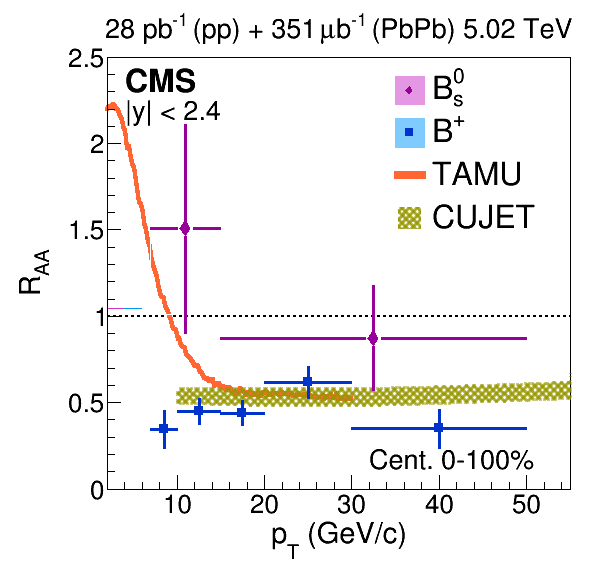
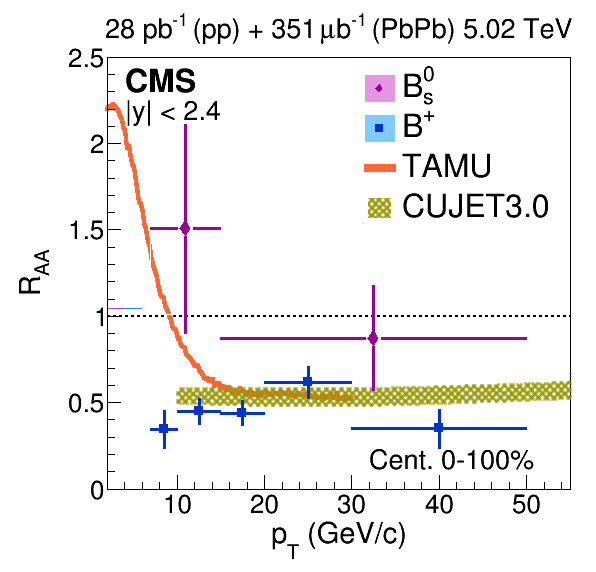
update

Changed region(s): [[0.604, 0.1189, 0.9362, 0.4161]]

diff --git a/CrossSection/NuclearModificationFactor.C b/CrossSection/NuclearModificationFactor.C
@@ -23,8 +23,8 @@ bool drawJpsi = 0;
 
 bool drawBpRpA = 0;
 
-bool drawThm = 1;
-bool drawSup = 0;
+bool drawThm = 0;
+bool drawSup = 1;
 
 int onlyBs = drawB + drawBpRAA + drawChHad + drawDRAA + drawJpsi + drawBpRpA;
 
@@ -247,9 +247,9 @@ void NuclearModificationFactor(TString inputPP="ROOTfiles/CrossSectionPP.root", 
 	//texpre->Draw();
 
 	//TLegend *legendSigma=new TLegend(0.50,0.66,0.95,0.88,"");
-    TLegend *legendSigma=new TLegend(0.7,0.67,0.95,0.88);
-	if(drawDRAA)legendSigma=new TLegend(0.35,0.55,0.95,0.88,"");
-	if(drawThm)legendSigma=new TLegend(0.65,0.58,0.95,0.88,"");
+    TLegend *legendSigma=new TLegend(0.6,0.6,0.9,0.88);
+	if(drawSup) legendSigma=new TLegend(0.7,0.67,0.95,0.88,"");
+	if(drawDRAA) legendSigma=new TLegend(0.35,0.55,0.95,0.88,"");
 	adjustLegend(legendSigma);
 
 	//TLegendEntry *ent_SigmaPP=legendSigma->AddEntry(hNuclearModification,"R_{AA} stat. unc.","pf");
@@ -466,7 +466,7 @@ void NuclearModificationFactor(TString inputPP="ROOTfiles/CrossSectionPP.root", 
 		gThmDummy1->SetLineWidth(8.);
 		gThmDummy2->SetLineWidth(8.);
 		TLegendEntry *ent_thm1 = legendSigma->AddEntry(gThmDummy1,"TAMU","l");
-		TLegendEntry *ent_thm2 = legendSigma->AddEntry(gThmDummy2,"CUJET","f");
+		TLegendEntry *ent_thm2 = legendSigma->AddEntry(gThmDummy2,"CUJET3.0","f");
 		ent_thm1->SetTextSize(legendTextSize);
 		ent_thm2->SetTextSize(legendTextSize);
 	}

diff --git a/CrossSection/plotBsBpRatio/canvasRAAPbPb_0_100_BpRAA.C b/CrossSection/plotBsBpRatio/canvasRAAPbPb_0_100_BpRAA.C
@@ -1,7 +1,7 @@
 void canvasRAAPbPb_0_100_BpRAA()
 {
 //=========Macro generated from canvas: canvasRAA/canvasRAA
-//=========  (Mon Sep 24 10:25:36 2018) by ROOT version6.02/13
+//=========  (Sun Sep 30 18:06:09 2018) by ROOT version6.02/13
    TCanvas *canvasRAA = new TCanvas("canvasRAA", "canvasRAA",0,0,600,600);
    gStyle->SetOptStat(0);
    gStyle->SetOptTitle(0);
@@ -63,6 +63,17 @@ tex->SetNDC();
 tex->SetNDC();
    tex->SetTextAlign(13);
    tex->SetTextSize(0.06);
+   tex->SetLineWidth(2);
+   tex->Draw();
+      tex = new TLatex(0.62,0.18,"Cent. 0-100%");
+tex->SetNDC();
+   tex->SetTextFont(42);
+   tex->SetLineWidth(2);
+   tex->Draw();
+      tex = new TLatex(0.35,0.877,"Supplementary");
+tex->SetNDC();
+   tex->SetTextAlign(13);
+   tex->SetTextFont(52);
    tex->SetLineWidth(2);
    tex->Draw();
    
@@ -188,7 +199,7 @@ tex->SetNDC();
    box->SetLineColor(ci);
    box->Draw();
    
-   TLegend *leg = new TLegend(0.7,0.67,0.95,0.88,NULL,"brNDC");
+   TLegend *leg = new TLegend(0.7,0.65,0.95,0.88,NULL,"brNDC");
    leg->SetBorderSize(0);
    leg->SetTextSize(0.055);
    leg->SetLineColor(0);

diff --git a/CrossSection/plotRAA/canvasRAAPbPb_0_100_BpRAA_ThmRAA.C b/CrossSection/plotRAA/canvasRAAPbPb_0_100_BpRAA_ThmRAA.C
@@ -1,7 +1,7 @@
 void canvasRAAPbPb_0_100_BpRAA_ThmRAA()
 {
 //=========Macro generated from canvas: canvasRAA/canvasRAA
-//=========  (Thu Sep 27 11:57:33 2018) by ROOT version6.02/13
+//=========  (Sun Sep 30 18:02:41 2018) by ROOT version6.02/13
    TCanvas *canvasRAA = new TCanvas("canvasRAA", "canvasRAA",0,0,600,600);
    gStyle->SetOptStat(0);
    gStyle->SetOptTitle(0);
@@ -1597,7 +1597,7 @@ tex->SetNDC();
    
    gre->Draw("3 ");
    
-   TLegend *leg = new TLegend(0.65,0.58,0.95,0.88,NULL,"brNDC");
+   TLegend *leg = new TLegend(0.6,0.6,0.9,0.88,NULL,"brNDC");
    leg->SetBorderSize(0);
    leg->SetTextSize(0.055);
    leg->SetLineColor(0);
@@ -1645,7 +1645,7 @@ tex->SetNDC();
    entry->SetMarkerSize(1);
    entry->SetTextFont(42);
    entry->SetTextSize(0.06);
-   entry=leg->AddEntry("","CUJET","f");
+   entry=leg->AddEntry("","CUJET3.0","f");
 
    ci = 931;
    color = new TColor(ci, 0.6, 0.6, 0, " ", 0.5);

diff --git a/CrossSection/plotBsBpRatio/BsBpRatio_ThmRAA.C b/CrossSection/plotBsBpRatio/BsBpRatio_ThmRAA.C
@@ -1,7 +1,7 @@
 void BsBpRatio_ThmRAA()
 {
 //=========Macro generated from canvas: canvasRAA/canvasRAA
-//=========  (Thu Sep 27 12:02:59 2018) by ROOT version6.02/13
+//=========  (Sun Sep 30 18:05:08 2018) by ROOT version6.02/13
    TCanvas *canvasRAA = new TCanvas("canvasRAA", "canvasRAA",0,0,600,600);
    gStyle->SetOptFit(1);
    gStyle->SetOptStat(0);
@@ -1594,7 +1594,7 @@ tex->SetNDC();
    entry->SetMarkerSize(1);
    entry->SetTextFont(42);
    entry->SetTextSize(0.07);
-   entry=leg->AddEntry("","CUJET","l");
+   entry=leg->AddEntry("","CUJET3.0","l");
 
    ci = TColor::GetColor("#999900");
    entry->SetLineColor(ci);

diff --git a/CrossSection/plotBsBpRatio/plotBsBpRatio.cc b/CrossSection/plotBsBpRatio/plotBsBpRatio.cc
@@ -186,7 +186,7 @@ void plotBsBpRatio(){
         gThmDummy1->SetLineWidth(8.);
         gThmDummy2->SetLineWidth(8.);
         TLegendEntry *ent_thm1 = legendSigma->AddEntry(gThmDummy1,"TAMU","l");
-        TLegendEntry *ent_thm2 = legendSigma->AddEntry(gThmDummy2,"CUJET","l");
+        TLegendEntry *ent_thm2 = legendSigma->AddEntry(gThmDummy2,"CUJET3.0","l");
         ent_thm1->SetTextSize(legendTextSize);
         ent_thm2->SetTextSize(legendTextSize);
         AddOn = AddOn += "_ThmRAA";

diff --git a/CrossSection/plotRAA/canvasRAAPbPb_0_100_BpRAA.C b/CrossSection/plotRAA/canvasRAAPbPb_0_100_BpRAA.C
@@ -1,7 +1,7 @@
 void canvasRAAPbPb_0_100_BpRAA()
 {
 //=========Macro generated from canvas: canvasRAA/canvasRAA
-//=========  (Thu Sep 27 11:59:48 2018) by ROOT version6.02/13
+//=========  (Sun Sep 30 18:07:25 2018) by ROOT version6.02/13
    TCanvas *canvasRAA = new TCanvas("canvasRAA", "canvasRAA",0,0,600,600);
    gStyle->SetOptStat(0);
    gStyle->SetOptTitle(0);

diff --git a/CrossSection/plotBsBpRatio/BsBpRatio.C b/CrossSection/plotBsBpRatio/BsBpRatio.C
@@ -1,7 +1,7 @@
 void BsBpRatio()
 {
 //=========Macro generated from canvas: canvasRAA/canvasRAA
-//=========  (Thu Sep 27 12:04:26 2018) by ROOT version6.02/13
+//=========  (Sun Sep 30 18:06:11 2018) by ROOT version6.02/13
    TCanvas *canvasRAA = new TCanvas("canvasRAA", "canvasRAA",0,0,600,600);
    gStyle->SetOptFit(1);
    gStyle->SetOptStat(0);
